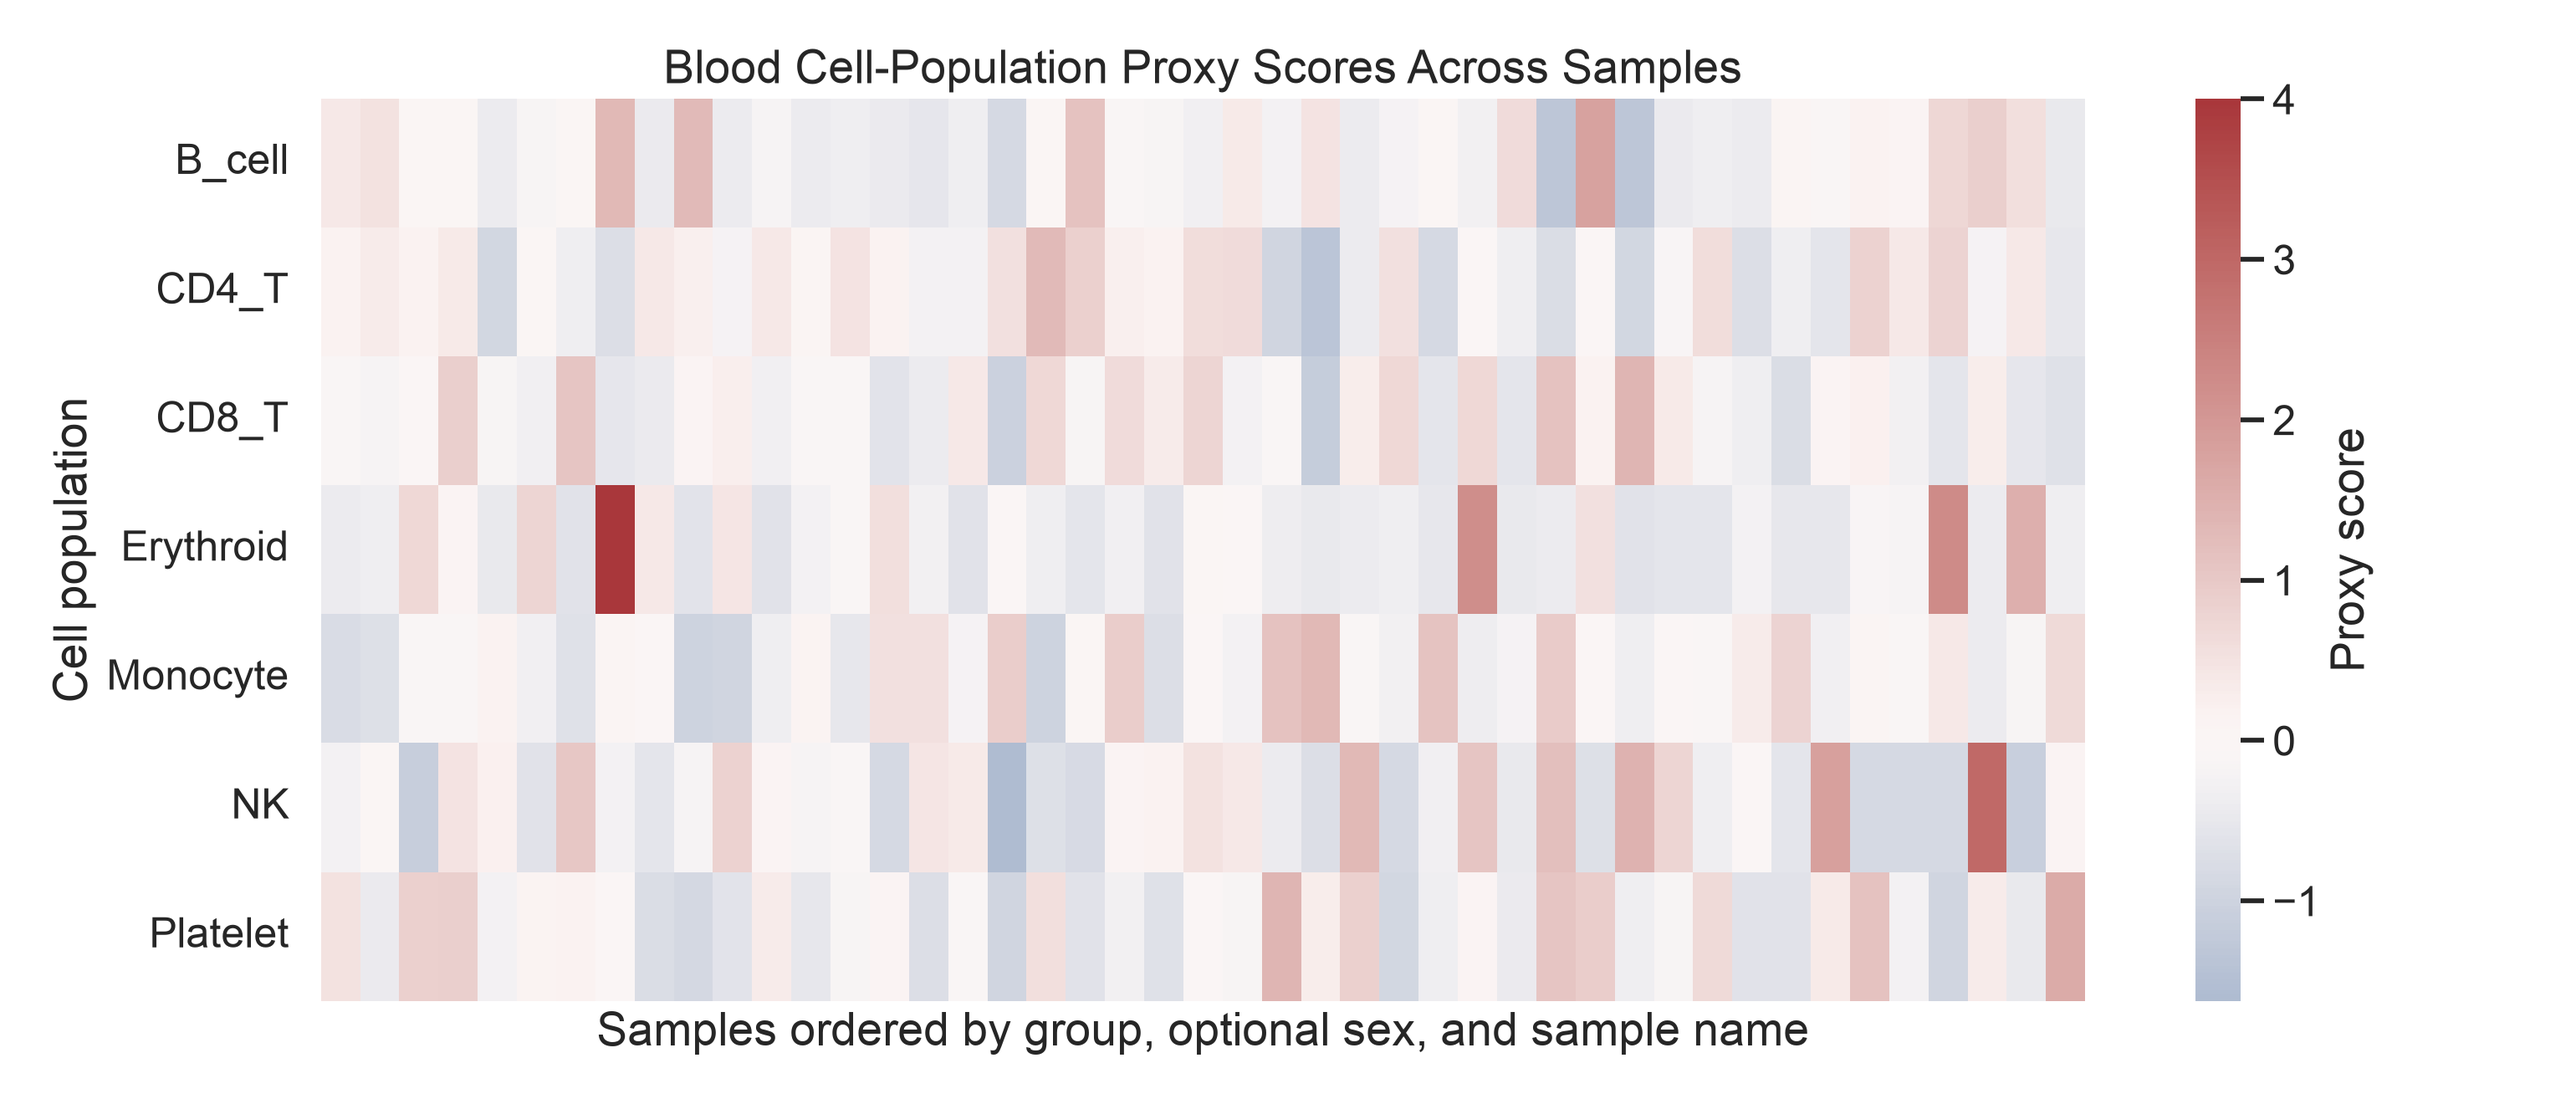
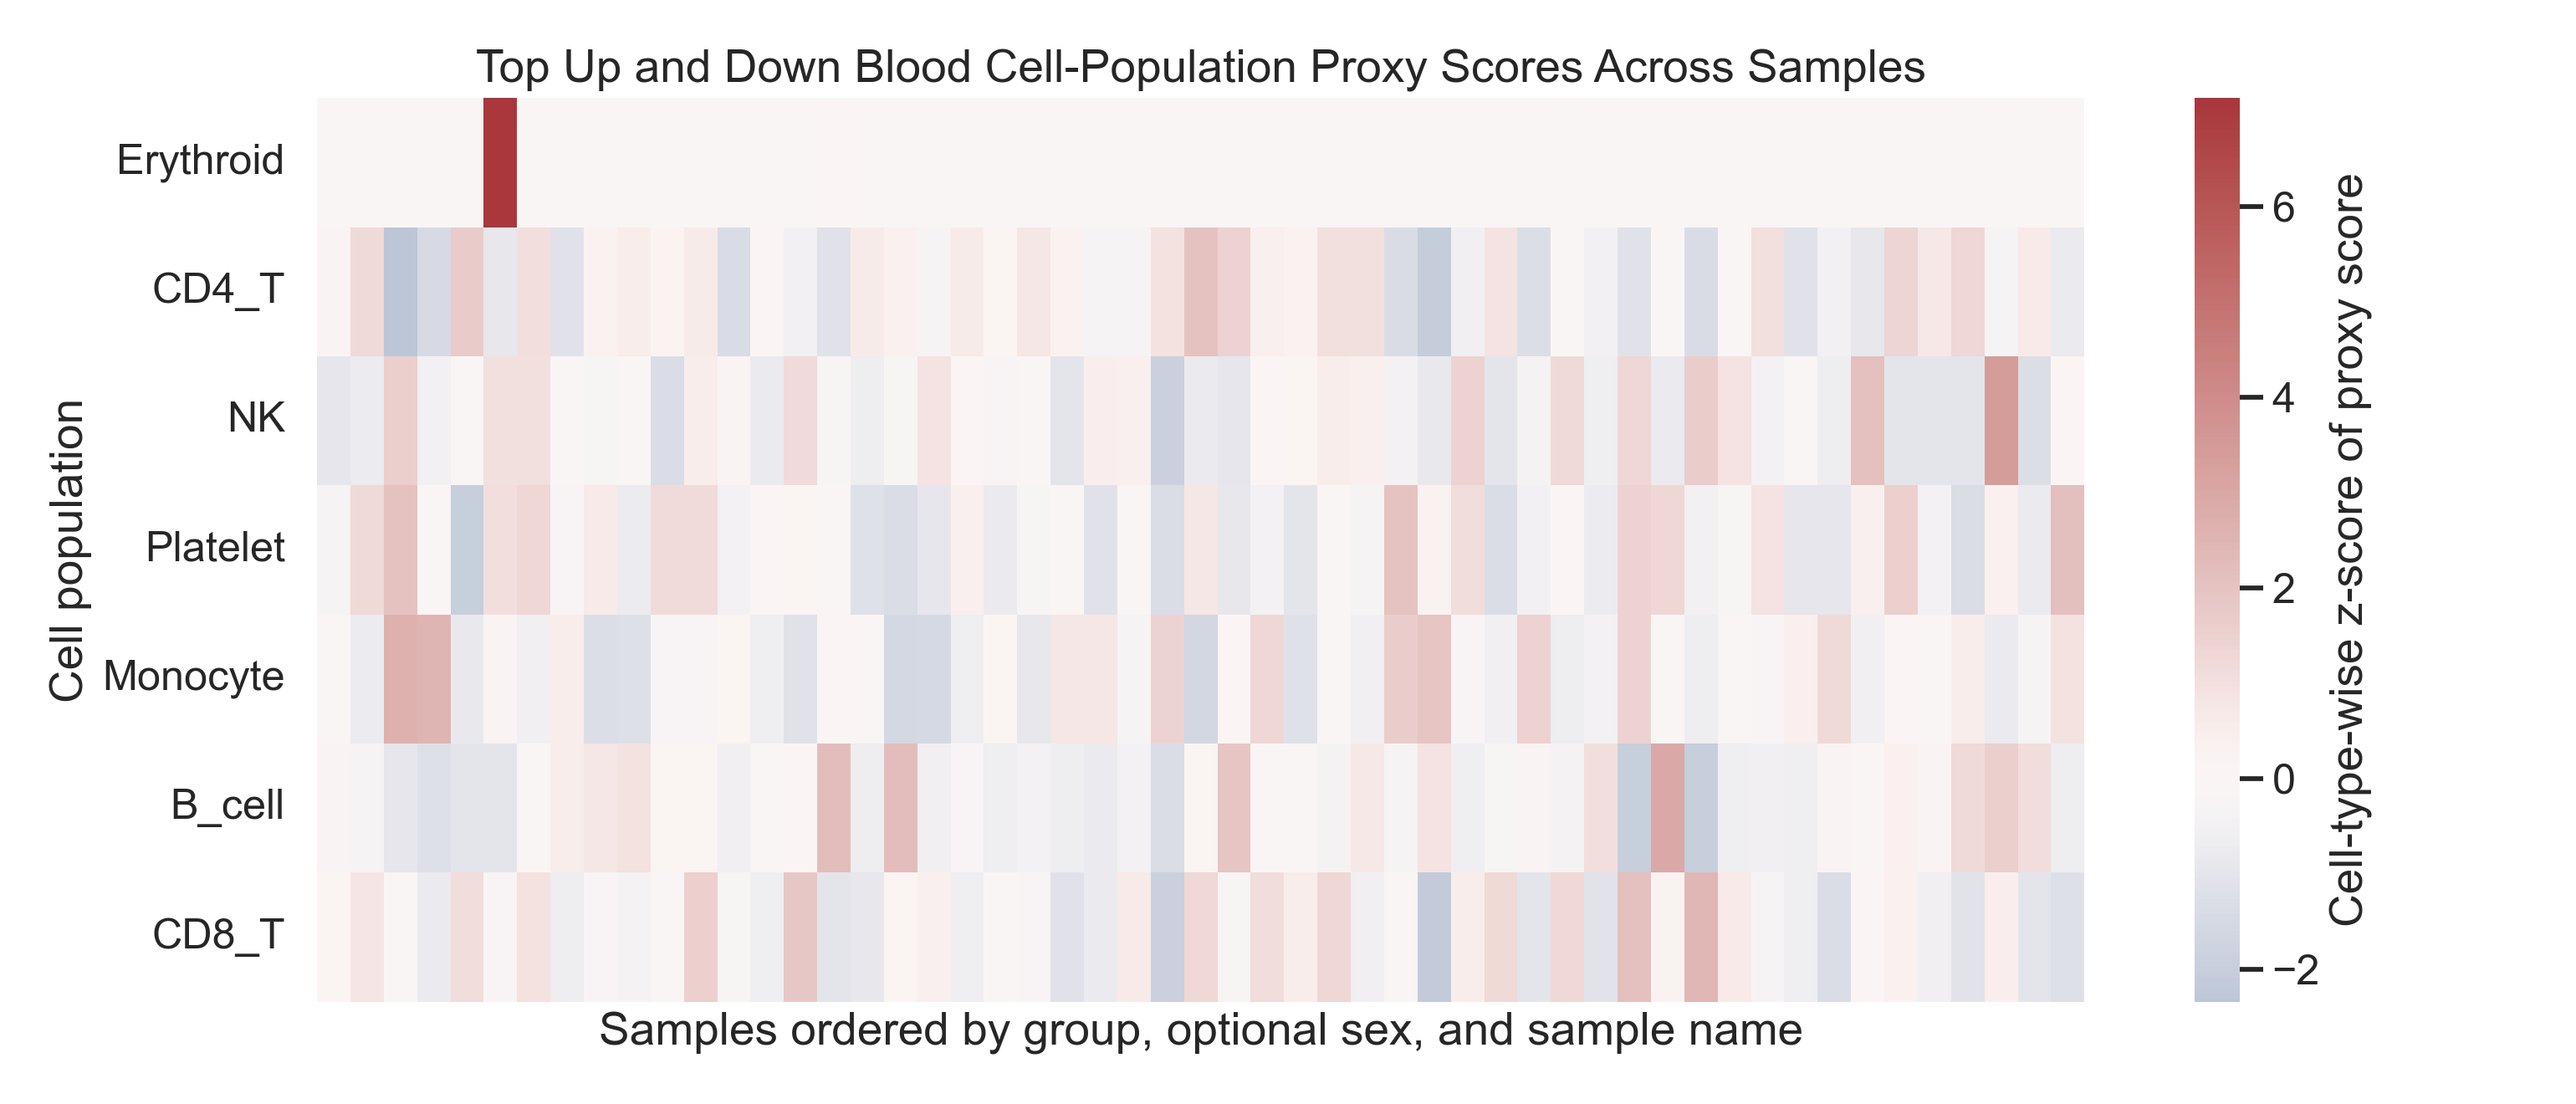
GSE39653 expression, cell population analysis resulst

diff --git a/PBMC/GSE39653/main.py b/PBMC/GSE39653/main.py
@@ -25,59 +25,59 @@ from run_qc_normalize_r import run_qc_normalization
 # so they are excluded from the two-group differential-expression/cell-proxy
 # steps rather than being folded into either group.
 mapping_text = """
-GSM973762	S_MDD-376
-GSM973763	S_HC-104
-GSM973764	S_HC-261
-GSM973765	S_MDD-465
-GSM973766	S_HC-513
-GSM973767	S_BD2-231
-GSM973768	S_HC-365
-GSM973769	S_HC-3
-GSM973770	S_MDD-456
-GSM973771	S_HC-284
-GSM973772	S_BD2-282
-GSM973773	S_MDD-425
-GSM973774	S_MDD-397
-GSM973775	S_BD1-351
-GSM973776	S_MDD-329
-GSM973777	S_MDD-395
-GSM973778	S_MDD-305
-GSM973779	S_HC-45
-GSM973780	S_HC-209
-GSM973781	S_HC-592
-GSM973782	S_BD1-588
-GSM973783	S_HC-418
-GSM973784	S_MDD-341
-GSM973785	S_HC-84
-GSM973786	S_HC-296
-GSM973787	S_MDD-328
-GSM973788	S_HC-172
-GSM973789	S_HC-216
-GSM973790	S_BD1-362
-GSM973791	S_MDD-347
-GSM973792	S_HC-321
-GSM973793	S_HC-285
-GSM973794	S_MDD-343
-GSM973795	S_MDD-369
-GSM973796	S_MDD-286
-GSM973797	S_HC-350
-GSM973798	S_MDD-398
-GSM973799	S_HC-253
-GSM973800	S_BD2-244
-GSM973801	S_HC-262
-GSM973802	S_MDD-580
-GSM973803	S_MDD-407
-GSM973804	S_MDD-573
-GSM973805	S_MDD-402
-GSM973806	S_BD2-338
-GSM973807	S_HC-115
-GSM973808	S_HC-204
-GSM973809	S_BD1-568
-GSM973810	S_HC-569
-GSM973811	S_HC-279
-GSM973812	S_MDD-566
-GSM973813	S_HC-88
-GSM973814	S_MDD-433
+GSM973762	MDD-376
+GSM973763	HC-104
+GSM973764	HC-261
+GSM973765	MDD-465
+GSM973766	HC-513
+GSM973767	BD2-231
+GSM973768	HC-365
+GSM973769	HC-3
+GSM973770	MDD-456
+GSM973771	HC-284
+GSM973772	BD2-282
+GSM973773	MDD-425
+GSM973774	MDD-397
+GSM973775	BD1-351
+GSM973776	MDD-329
+GSM973777	MDD-395
+GSM973778	MDD-305
+GSM973779	HC-45
+GSM973780	HC-209
+GSM973781	HC-592
+GSM973782	BD1-588
+GSM973783	HC-418
+GSM973784	MDD-341
+GSM973785	HC-84
+GSM973786	HC-296
+GSM973787	MDD-328
+GSM973788	HC-172
+GSM973789	HC-216
+GSM973790	BD1-362
+GSM973791	MDD-347
+GSM973792	HC-321
+GSM973793	HC-285
+GSM973794	MDD-343
+GSM973795	MDD-369
+GSM973796	MDD-286
+GSM973797	HC-350
+GSM973798	MDD-398
+GSM973799	HC-253
+GSM973800	BD2-244
+GSM973801	HC-262
+GSM973802	MDD-580
+GSM973803	MDD-407
+GSM973804	MDD-573
+GSM973805	MDD-402
+GSM973806	BD2-338
+GSM973807	HC-115
+GSM973808	HC-204
+GSM973809	BD1-568
+GSM973810	HC-569
+GSM973811	HC-279
+GSM973812	MDD-566
+GSM973813	HC-88
+GSM973814	MDD-433
 """
 
 
@@ -92,7 +92,7 @@ expression_csv, metadata_csv = run_preprocessor(
     phenotype_characteristic_name="disease",
     phenotype_value_map={
         "healthy control": "Control",
-        "major depressive disorder": "Case",
+        "major depressive disorder/ bipolar disorder": "Case",
     },
 )
 
@@ -117,6 +117,8 @@ run_expression_analysis(
     case_label_keywords="case",
     control_label="Control",
     case_label="Case",
+    control_prefix="HC",
+    case_prefix=("MDD", "BD"),
 )
 
 run_cell_proxy_analysis(
@@ -130,6 +132,23 @@ run_cell_proxy_analysis(
     case_label_keywords="case",
     control_label="Control",
     case_label="Case",
+    control_prefix="HC",
+    case_prefix=("MDD", "BD"),
+)
+
+run_cell_proxy_analysis(
+    input_file=results_dir / "deduplicated_expression_dataset.csv",
+    metadata_file=TEST_DIR / "processed_data" / "sample_metadata.csv",
+    output_dir=TEST_DIR / "cell_population_proxies_neutrophil",
+    markers_csv=PROJECT_ROOT / "markers" / "blood_cell_markers.csv",
+    metadata_sample_column="analysis_sample",
+    metadata_phenotype_column="depression_status",
+    control_label_keywords="control",
+    case_label_keywords="case",
+    control_label="Control",
+    case_label="Case",
+    control_prefix="HC",
+    case_prefix=("MDD", "BD"),
 )
 
 print(f"Expression output: {expression_csv}")
